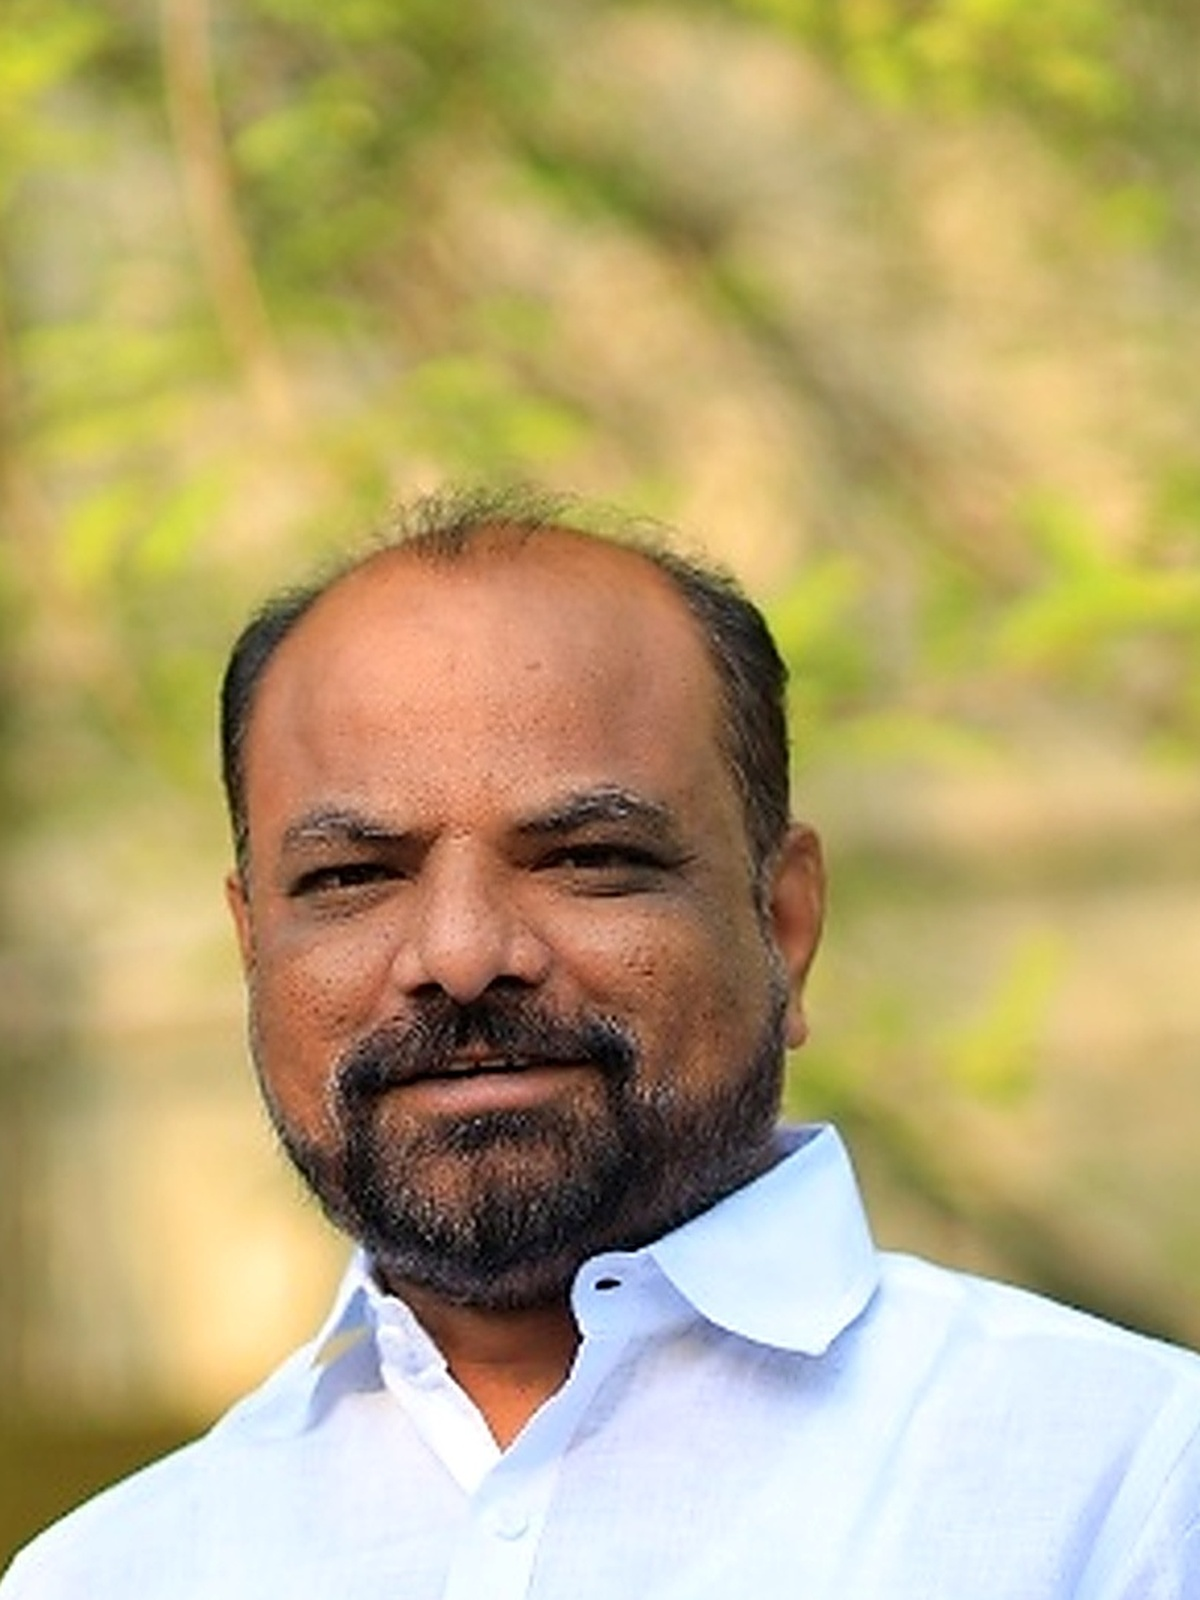
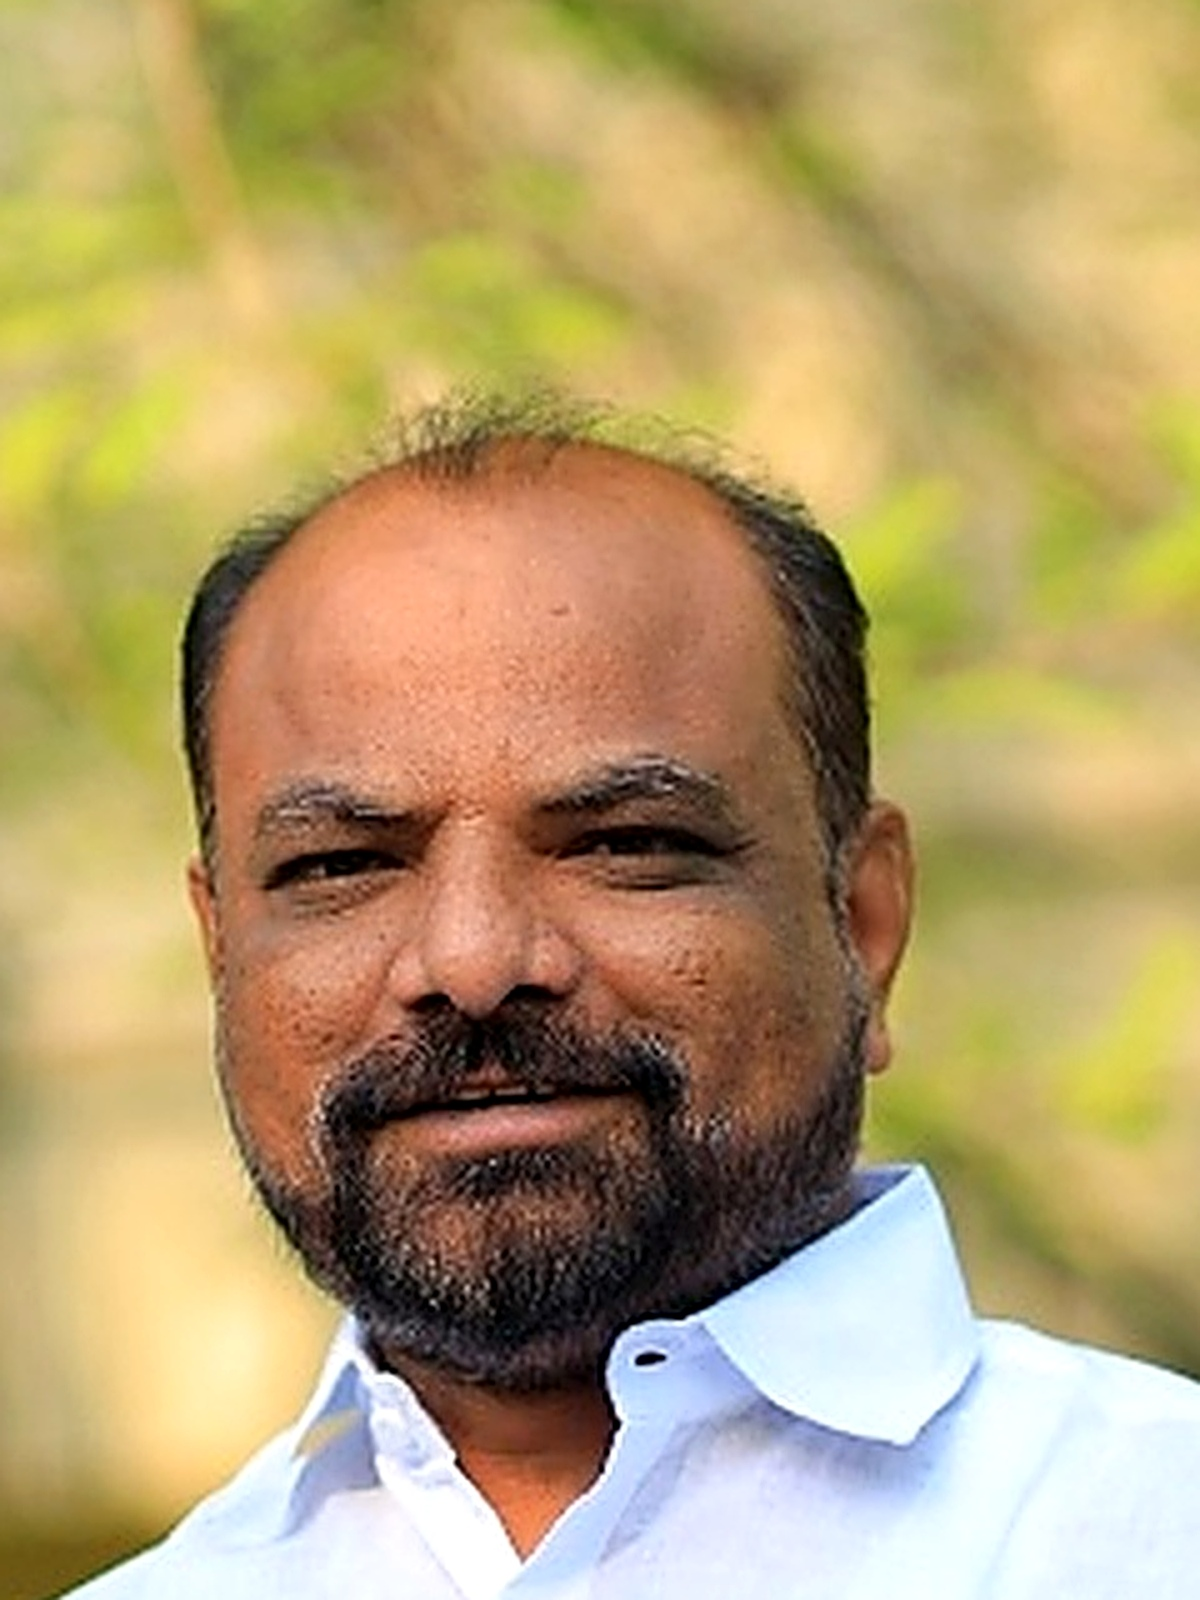
fix: zoom in and center Correspondent face portrait with clear person appearance

diff --git a/src/components/home/FounderAndSchoolStory.tsx b/src/components/home/FounderAndSchoolStory.tsx
@@ -280,7 +280,6 @@ export default function FounderAndSchoolStory({ onOpenAdmissions }: FounderAndSc
                           sizes="150px"
                           className="object-cover object-center filter contrast-[1.03] group-hover:scale-105 transition-transform duration-500"
                         />
-                        <div className="absolute inset-0 bg-gradient-to-t from-black/60 via-transparent to-transparent" />
                       </div>
                     </div>
                   </div>
@@ -392,7 +391,6 @@ export default function FounderAndSchoolStory({ onOpenAdmissions }: FounderAndSc
                           sizes="150px"
                           className="object-cover object-center filter contrast-[1.03] group-hover:scale-105 transition-transform duration-500"
                         />
-                        <div className="absolute inset-0 bg-gradient-to-t from-black/60 via-transparent to-transparent" />
                       </div>
                     </div>
                   </div>
